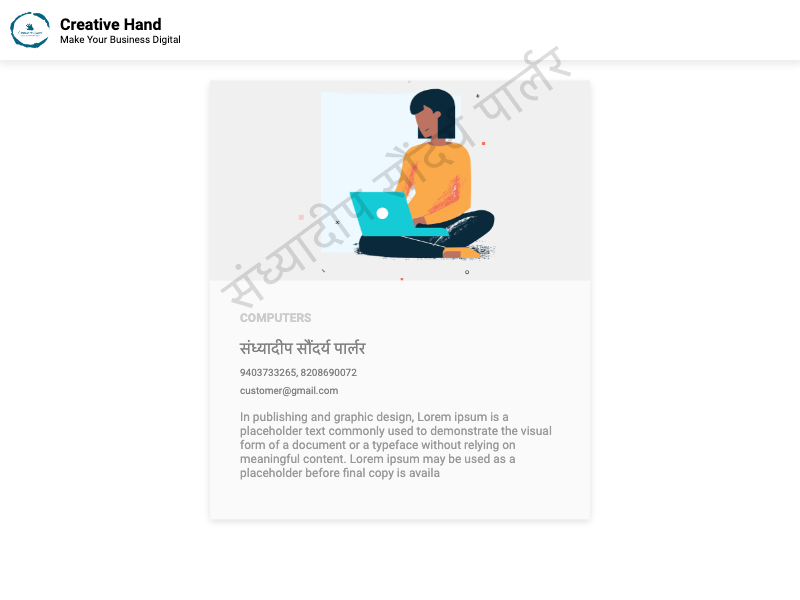
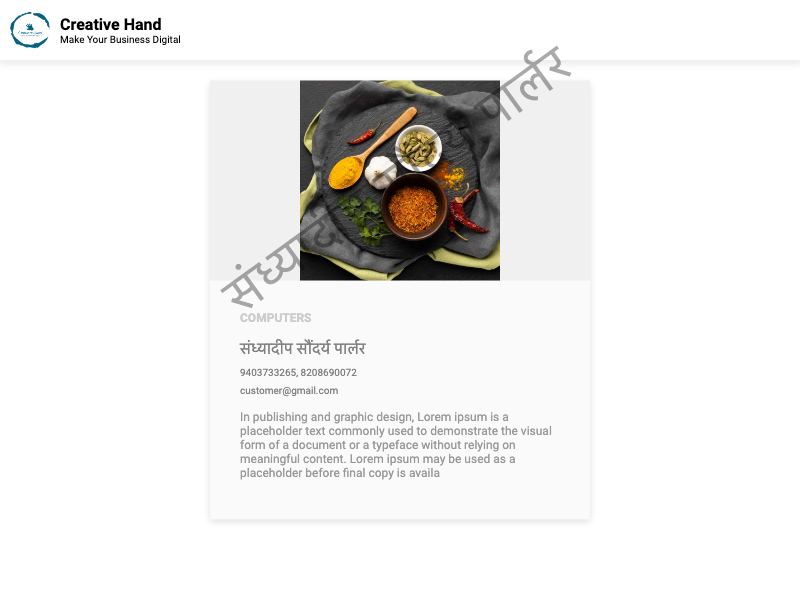
Added changes in template

Changed region(s): [[0.2812, 0.09, 0.7188, 0.51]]

diff --git a/src/utils/viewTemplates.js b/src/utils/viewTemplates.js
@@ -12,6 +12,8 @@ const fetchTemplates = (myCondition, businessDetails, userDetails, productDetail
     const productName = productDetails.productName;
     const productDescription = `${productDetails.productDescription}`;
     const businessLogo = `${constants.creativeHand}`;
+
+    // for local use constants.creativeHandLocal
     const productImagePath = `${constants.creativeHandProduction}${productDetails.productImageUrl}`;
     const businessImagePath = `${constants.creativeHandProduction}${businessDetails.business.businessImageUrl}`;
     const outputPath = path.join(__dirname, '..', 'public', `product-enquiry-${businessId}.png`);

diff --git a/src/public/templates/product_enquiry_template.html b/src/public/templates/product_enquiry_template.html
@@ -37,6 +37,7 @@
             position: relative;
             box-shadow: 0 2px 7px #dfdfdf;
             background: #fafafa;
+            z-index: 9;
         }
 
         .badge {
@@ -149,6 +150,7 @@
             display: flex;
             align-items: center;
             box-shadow: 1px 2px 8px 2px #00000017;
+            z-index: 1;
         }
 
         .business-logo {
@@ -175,7 +177,7 @@
         {
             position: absolute;
             font-size: 50px;
-            opacity: 0.13;
+            opacity: 0.33;
             z-index: 99;
             color: black;
             transform: rotate(324deg);

diff --git a/src/controllers/business.controller.js b/src/controllers/business.controller.js
@@ -206,7 +206,7 @@ const downloadEnquiryImage = catchAsync(async (req, res) => {
   nodeHtmlToImage({
       output: result.outputPath,
       html: result.updatedHtmlContent,
-      puppeteerArgs: options.puppeteerArgs,
+      puppeteerArgs: options.puppeteerArgs, // comment this for local (Imaportant)
   }).then(() => {
     const filename = path.basename(result.outputPath, 'result');
     const relativePath = path.join('public', filename);
